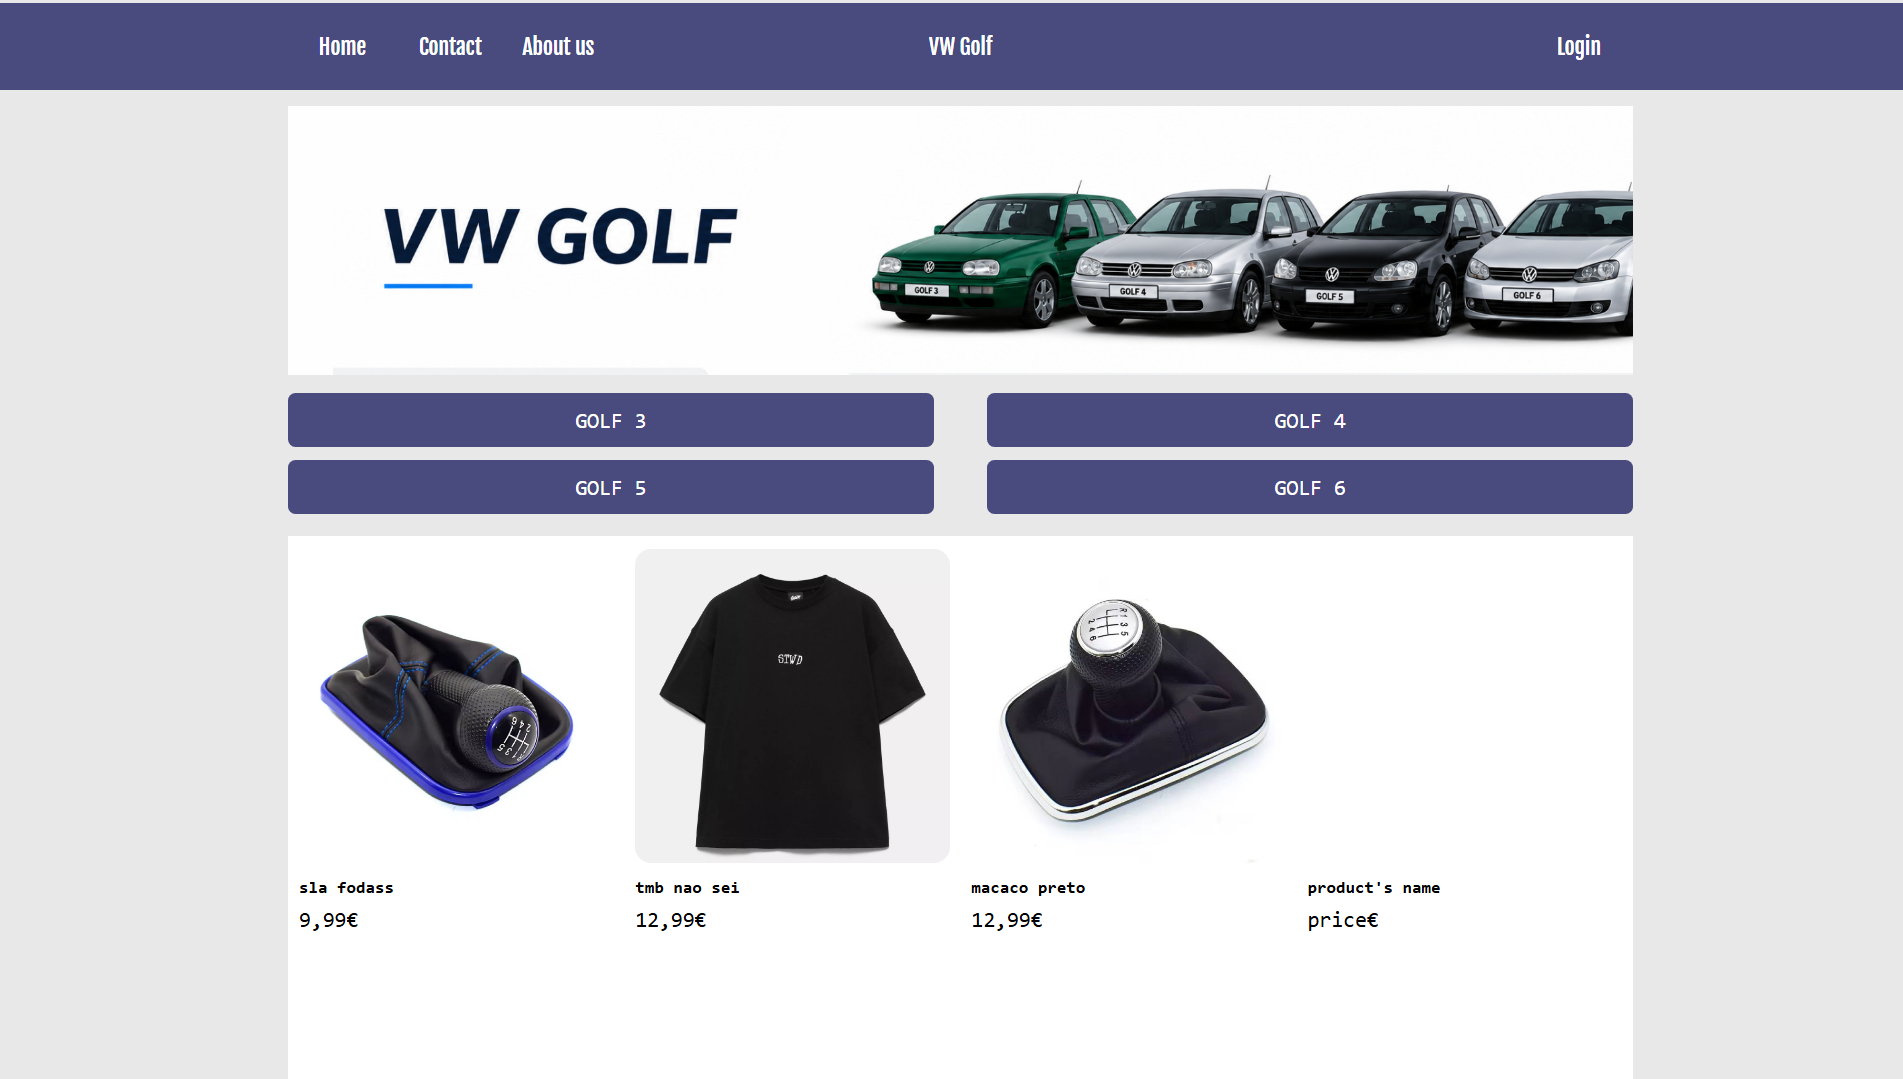
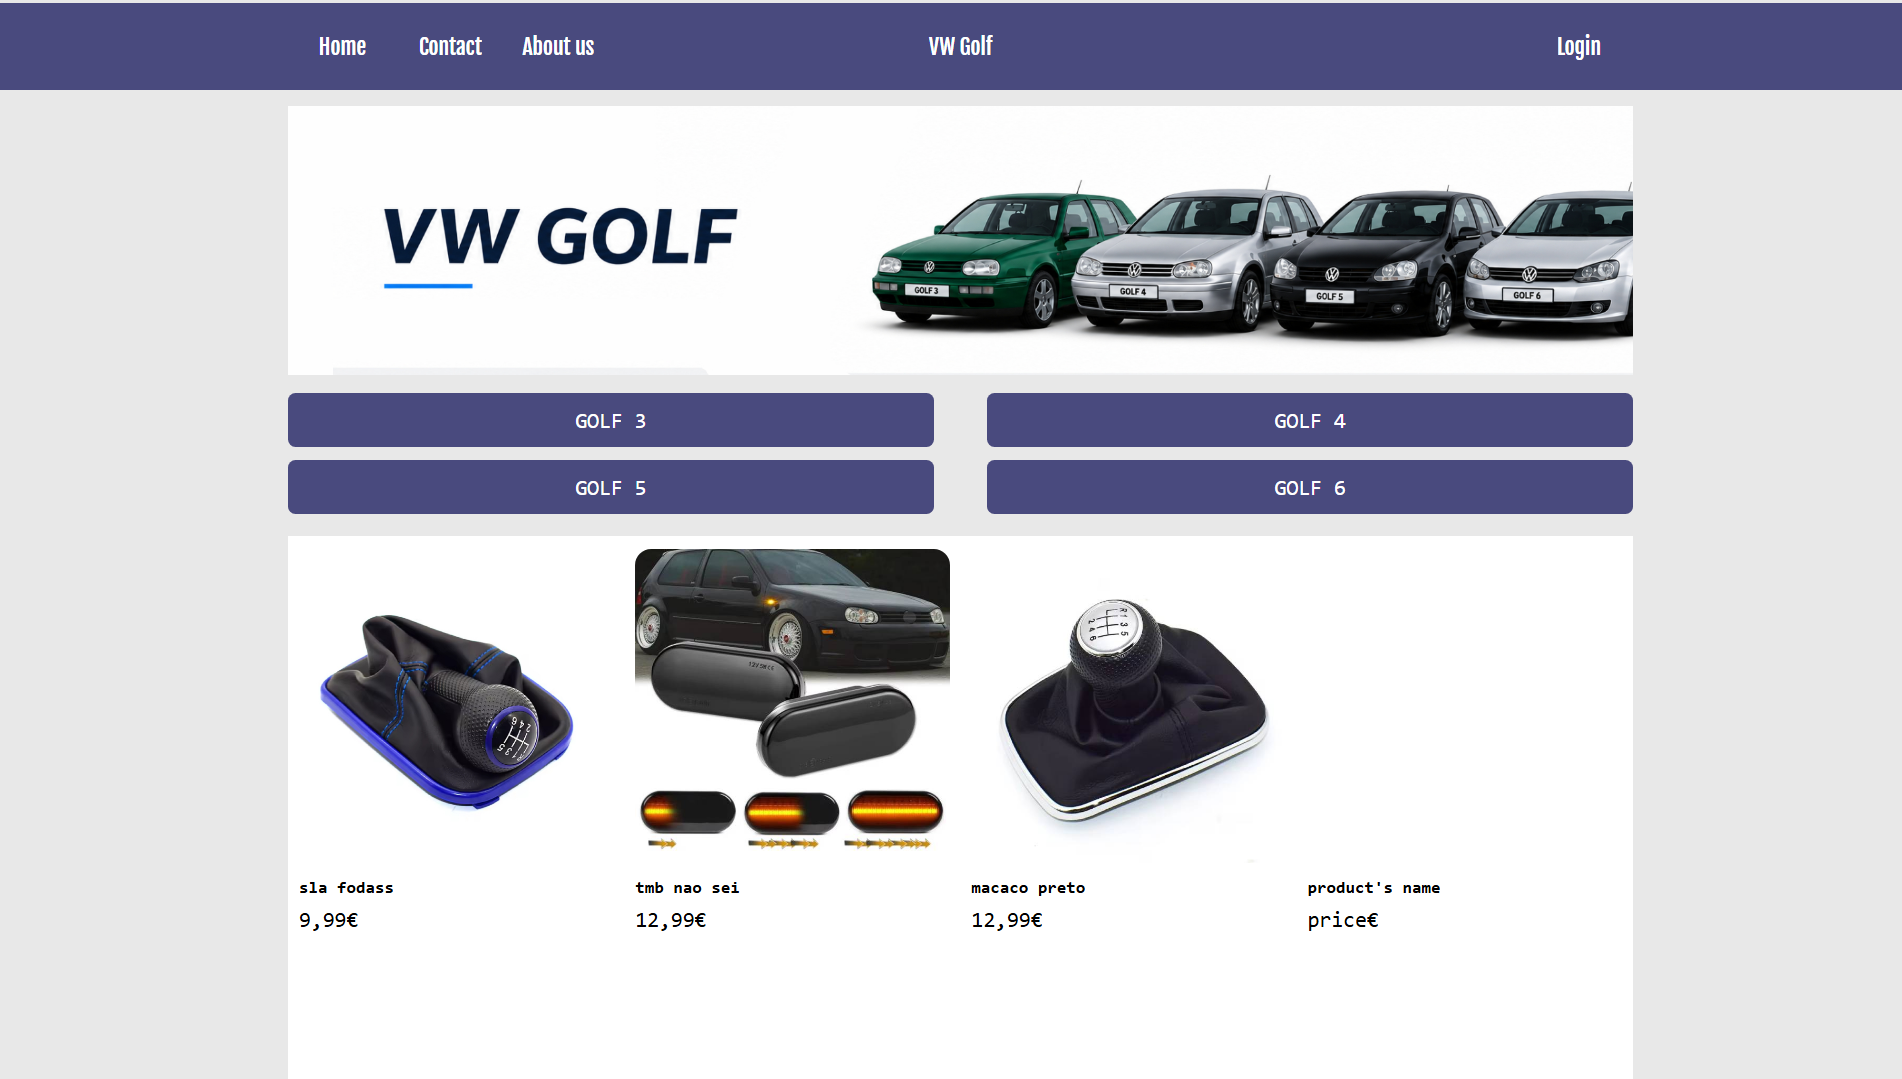
a

diff --git a/vwgolf/p/p2.html b/vwgolf/p/p2.html
@@ -88,12 +88,12 @@
 
                     <ul>
 
-                        <li class="gallery-item" qual-imagem="p2/photo.png"
-                            style="background-image: url('p2/photo.png');"></li>
-                        <li class="gallery-item" qual-imagem="p2/photo2.png"
-                            style="background-image: url('p2/photo2.png');"></li>
-                        <li class="gallery-item" qual-imagem="p2/photo3.png"
-                            style="background-image: url('p2/photo3.png');"></li>
+                        <li class="gallery-item" qual-imagem="../golf4/sidemarker/1.jpg"
+                            style="background-image: url('../golf4/sidemarker/1.jpg');"></li>
+                        <li class="gallery-item" qual-imagem="../golf4/sidemarker/2.jpg"
+                            style="background-image: url('../golf4/sidemarker/2.jpg');"></li>
+                        <li class="gallery-item" qual-imagem="../golf4/sidemarker/3.jpg"
+                            style="background-image: url('../golf4/sidemarker/3.jpg');"></li>
 
                     </ul>
 
@@ -102,7 +102,7 @@
 
 
                 <div id="photo" class="photo"
-                    style="background-image: url('p2/photo.png'); background-position: center;"></div>
+                    style="background-image: url('../golf4/sidemarker/1.jpg'); background-position: center;"></div>
 
 
             </div>

diff --git a/vwgolf/home.html b/vwgolf/home.html
@@ -111,7 +111,7 @@
 
 
             <li class="second"><a href="p/p2.html">
-                    <div class="image" style="background-image: url('p/p2/photo.png'); background-position: center;">
+                    <div class="image" style="background-image: url('golf4/sidemarker/1.jpg'); background-position: center;">
                     </div>
                 </a>
                 <div class="info">